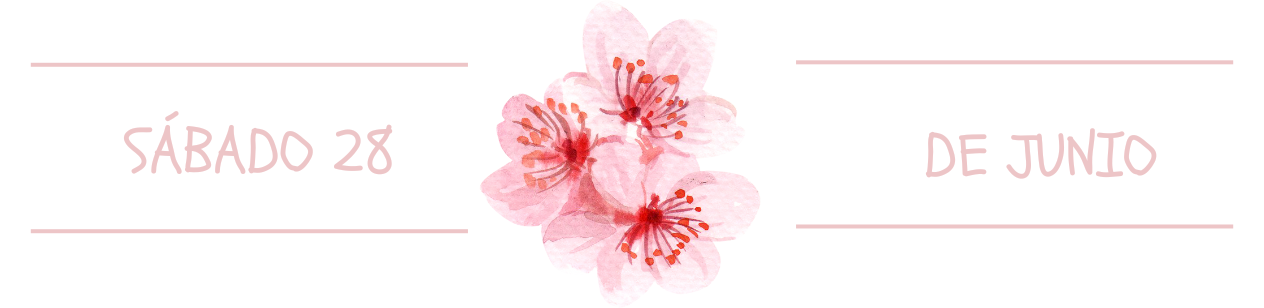
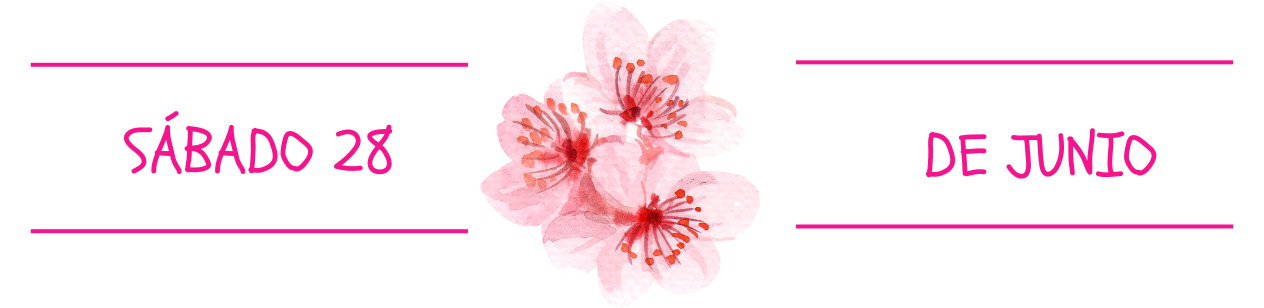
aa
aa

diff --git a/style.css b/style.css
@@ -1,7 +1,8 @@
 :root {
     --color-principal:#F7F4F2;
     --color-secundario:#EDC5C7;
-    --color-terciario:#EDC5C7;
+    --color-terciario:#F5138E;
+    
     --font-principal:'Schoolbell', cursive;
     --font-secundaria:'Nunito Sans', sans-serif;
 }
@@ -187,15 +188,15 @@ audio::-webkit-media-controls-current-time-display {
  .boton2 {
     border: 1px solid var(--color-principal);
     background-color: var(--color-principal);
-    color: var(--color-secundario);
+    color: var(--color-terciario);
     padding: 10px 30PX;
     text-decoration: none;
     margin-top:0px;
     border-radius: 50px;
  }
  .boton2:hover {
-     color: var(--color-terciario);
-     background-color: var(--color-principal);
+     color: var(--color-principal);
+     background-color: var(--color-terciario);
      border: 1px solid var(--color-terciario);
      padding: 10px 30PX;
      text-align: center;
